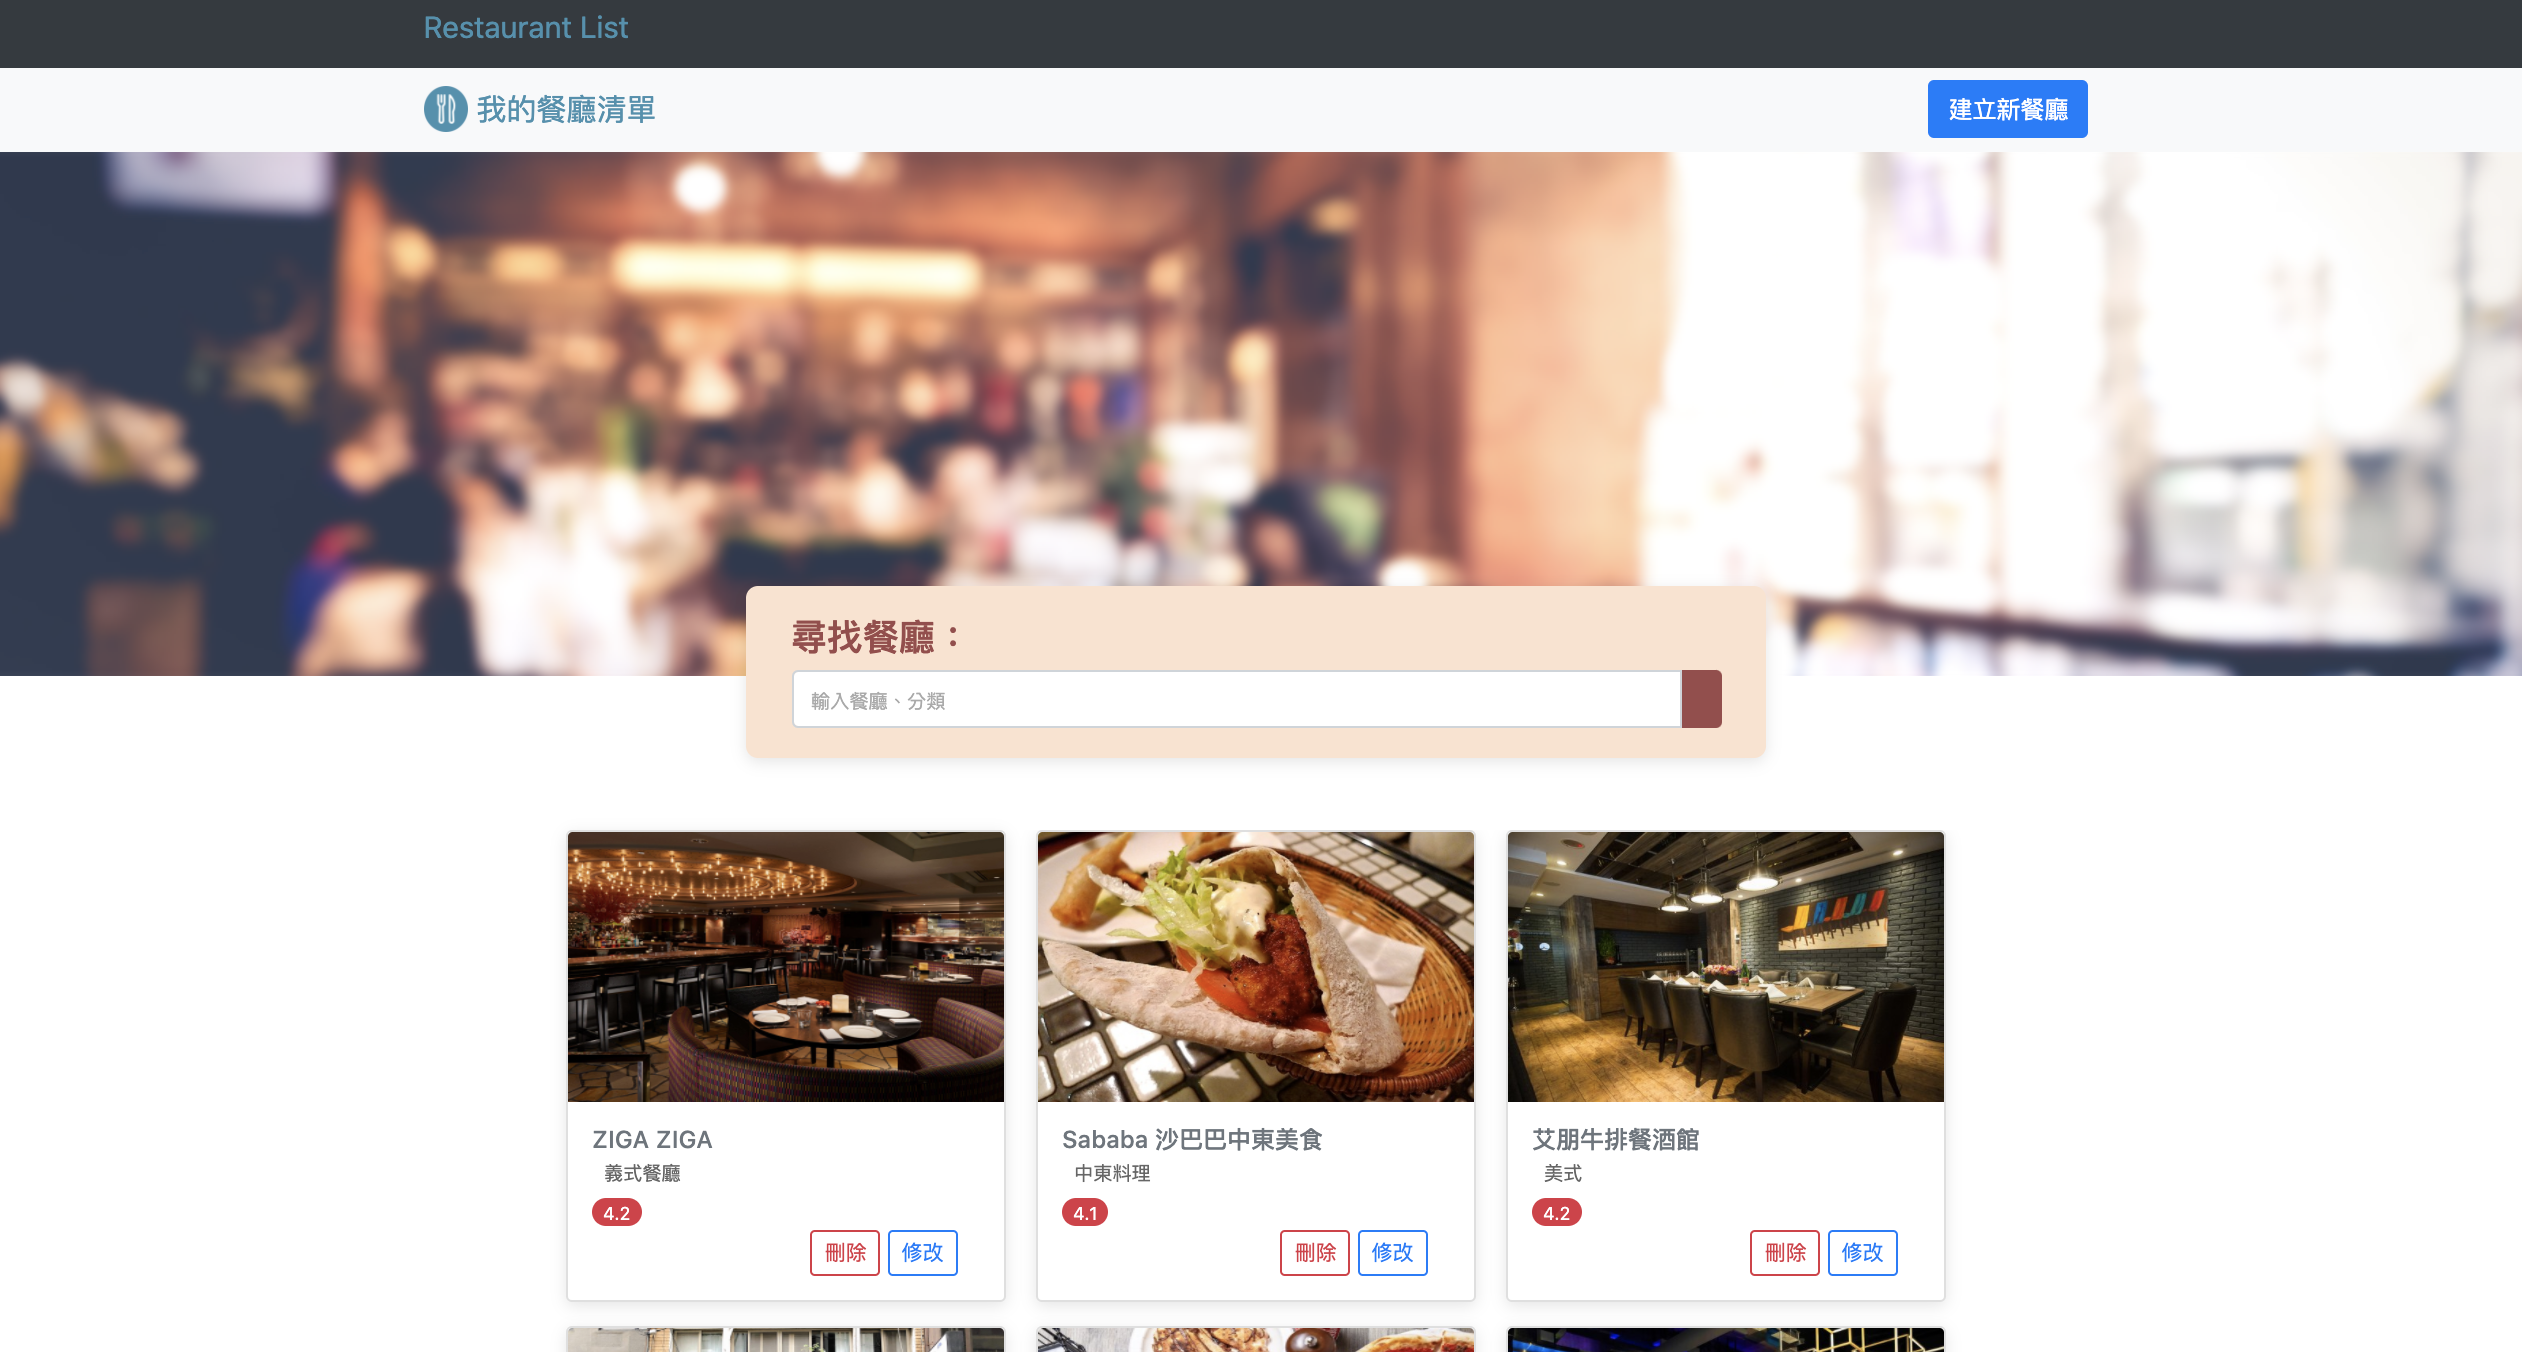
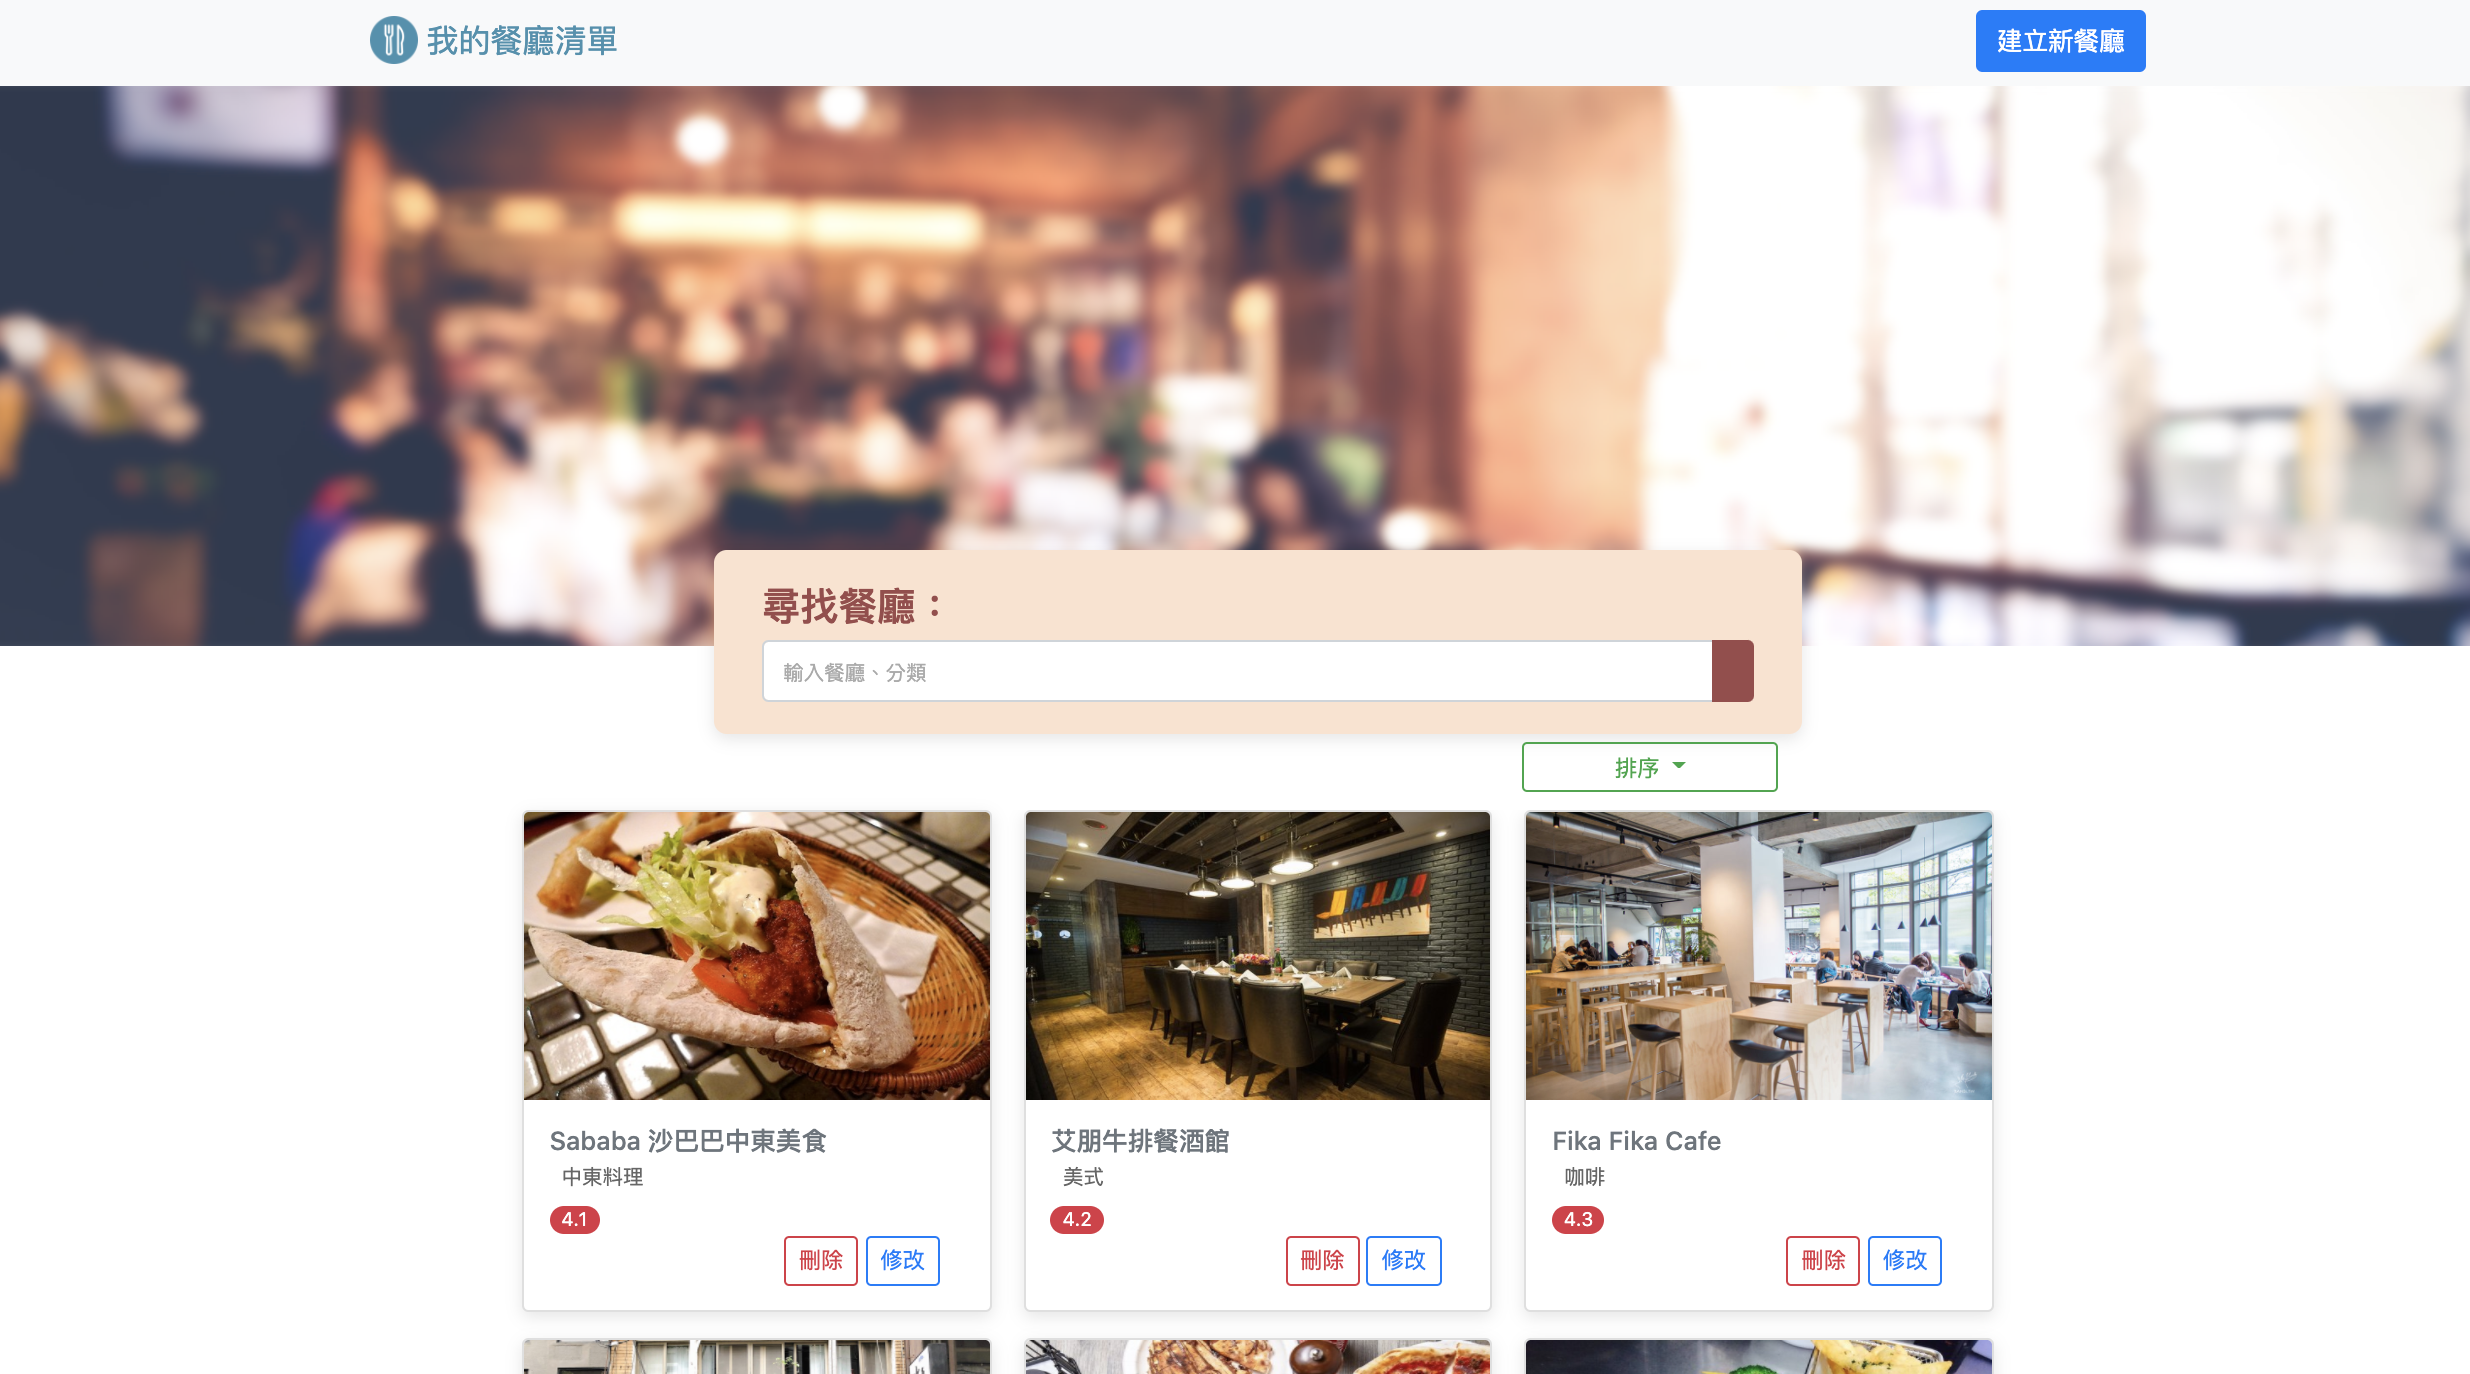
feat: add sort.js

diff --git a/routes/modules/sort.js b/routes/modules/sort.js
@@ -1,0 +1,71 @@
+const express = require('express')
+const router = express.Router()
+const Restaurant = require('../../models/restaurant')
+
+router.get('/nameasc', (req, res) => {
+    Restaurant.find()
+        .lean()
+        .sort({ name: 'asc' })
+        .then(restaurants => res.render('index', { restaurants }))
+        .catch(error => console.log(error))
+})
+
+router.get('/namedesc', (req, res) => {
+    Restaurant.find()
+        .lean()
+        .sort({ name: 'desc' })
+        .then(restaurants => res.render('index', { restaurants }))
+        .catch(error => console.log(error))
+})
+
+router.get('/category', (req, res) => {
+    Restaurant.find()
+        .lean()
+        .sort({ category: 'asc' })
+        .then(restaurants => res.render('index', { restaurants }))
+        .catch(error => console.log(error))
+})
+
+router.get('/location', (req, res) => {
+    console.log(req.params)
+    console.log(req.params.key)
+    console.log(req.params.value)
+    Restaurant.find()
+        .lean()
+        .sort({ rating: 'asc' })
+        .then(restaurants => res.render('index', { restaurants }))
+        .catch(error => console.log(error))
+})
+
+router.get('/restaurants/:id', (req, res) => {
+    const id = req.params.id
+    return Restaurant.findById(id)
+        .lean()
+        .then((restaurant) => res.render('show', { restaurant }))
+        .catch(error => console.log(error))
+})
+
+router.get('/restaurants/:id/edit', (req, res) => {
+    const id = req.params.id
+    return Restaurant.findById(id)
+        .lean()
+        .then((restaurant) => res.render('edit', { restaurant }))
+        .catch(error => console.log(error))
+})
+
+router.delete('/delete/:id', (req, res) => {
+    const id = req.params.id
+    return Restaurant.findById(id)
+        .then(restaurant => restaurant.remove())
+        .then(() => res.redirect('/'))
+        .catch(error => console.log(error))
+})
+
+router.post('/', (req, res) => {
+    const restaurant = req.body
+    return Restaurant.create(restaurant)
+        .then(() => res.redirect('/'))
+        .catch(error => console.log(error))
+})
+
+module.exports = router

diff --git a/routes/index.js b/routes/index.js
@@ -3,10 +3,13 @@ const router = express.Router()
 
 const home = require('./modules/home')
 const restaurants = require('./modules/restaurants')
+const sort = require('./modules/sort')
 
-// 將網址結構符合 / 字串的 request 導向 home 模組
+// 將網址結構符合 / 字串的 request 導向 home.js 模組
 router.use('/', home)
-// 將網址結構符合 /restaurants 字串開頭的 request 導向 todos 模組
+// 將網址結構符合 /restaurants 字串開頭的 request 導向 restaurants.js 模組
 router.use('/restaurants', restaurants)
+// 將網址結構符合 /sort 字串開頭的 request 導向 sort.js 模組
+router.use('/sort', sort)
 
 module.exports = router

diff --git a/public/stylesheets/bootstrap.css b/public/stylesheets/bootstrap.css
@@ -67,6 +67,16 @@ body {
   outline: 0 !important;
 }
 
+.search-bar {
+  position: relative;
+}
+.sort-button {
+  position: absolute;
+  left: 5 px;
+  padding: -20px;
+  margin: -10px;
+}
+
 hr {
   box-sizing: content-box;
   height: 0;

diff --git a/README.md b/README.md
@@ -8,6 +8,8 @@
 - 進入專案資料夾，並下載package
 `cd restaurant_lists` &
 `npm install`
+- 產生種子資料
+`npm run seed`
 - 透過nodemon啟動專案
 `npm run dev`
 - 在terminal可以看到 Express is listening on localhost : 3000，開啟瀏覽器在網址列輸入localhost:3000
@@ -18,11 +20,15 @@
 3. 增加餐廳之功能
 4. 修改餐廳資訊之功能
 5. 刪除餐廳之功能
+6. 透過餐廳名字、地址、餐廳分類，去排序餐廳
 
 ## 開發環境
-Node.js: v10.15.0 /
-Express: v4.17.1 /
-Express-Handlebars: v4.0.4
+Node.js v10.15.0
+Express v4.17.1
+Express-Handlebars v4.0.4
+Body-parser: v1.19.0
+mongoose: v5.9.14
+method-override: v3.0.0
 
 ## 截圖
 ![image info](picture.png)
